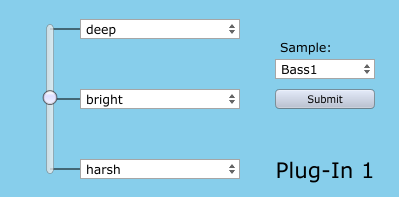
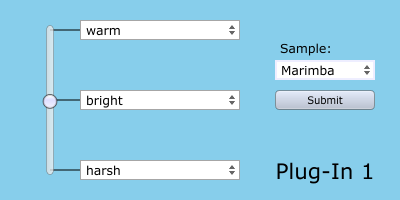
and they talked of the hordes of old

diff --git a/chapter7/chapter7.tex b/chapter7/chapter7.tex
@@ -576,24 +576,33 @@
 	\subsection{Evaluation Experiment}
 	\label{sec:PerceptualExperiments-SemanticControl-EvaluationExperiment}
 		To assess the performance of the developed effects subjectively a series of perceptual listening tests were
-		undertaken. Each of the effects were implemented as audio plug-ins with the interface shown in Figure
-		\ref{fig:TestPlugInterface}.
+		undertaken. For the purposes of testing each of the effect was implemented as an audio plug-in. Participants
+		were presented with a DAW session containing a track for each of the test signals. On each track both effect
+		plug-ins were inserted. The effects were labelled as ``Plug-In 1'' and ``Plug-In 2'' and had identical
+		interfaces as seen in Figure \ref{fig:TestPlugInterface}.
 
 		\begin{figure}[h!]
 			\centering
-			\includegraphics{chapter7/Images/TestPlugInInterface.png}
+			\includegraphics[width=0.6\textwidth]{chapter7/Images/TestPlugInInterface.png}
 			\caption{The interface used for assessing the performance of the developed effects.}
 			\label{fig:TestPlugInterface}
 		\end{figure}
 
-		\note
-		{
-			Randomness, DAW, list of descriptors, 3 points labelled, asked to listen to the effect prior to
-			annotation.
+		To mitigate influence of the plug-in's interface layout on the result of the experiment the direction of
+		the parameter sliders was randomised for each participant. The order of the tracks in the DAW session was
+		also randomised to mitigate any effect the order of tracks may have on results.
 
-			(airy, boomy, boxy, bright, clear, creamy, crunchy, deep, full, fuzzy, harsh, muddy, raspy, smooth,
-			thin, tinny and warm)
-		}
+		For each effect on each track participants were asked to first take a short time to audition the effect to
+		become accustomed to how changing the parameter value affects that particular input signal. Once they had
+		investigated the operation of the effect they were asked to label the parameter slider at three positions
+		(parameter values of 0, 0.5 and 1) with a term they felt best described the timbral effect of the effect at
+		that parameter setting. A list of available terms was provided in a drop down list at each parameter value
+		to be labelled as seen in Figure \ref{fig:TestPlugInterface}. The available terms were the 17 unique terms
+		from the SAFE dataset discussed in Chapter \ref{chap:TimbreEvaluation} (airy, boomy, boxy, bright, clear,
+		creamy, crunchy, deep, full, fuzzy, harsh, muddy, raspy, smooth, thin, tinny and warm).
+
+		In total 22 participants took part in the test, all of whom had experience in music production and reported
+		no known hearing problems. All participants undertook the test using the same equipment.
 
 	\subsection{Performance Results}
 	\label{sec:PerceptualExperiments-SemanticControl-PerformanceResults}
@@ -603,18 +612,21 @@
 			\centering
 			\includegraphics{chapter7/Images/HarshConfusion.pdf}
 			\caption{Heat map of term usage for the warmth / harshness effect.}
+			\label{fig:HarshConfusion}
 		\end{figure}
 
 		\begin{figure}[h!]
 			\centering
 			\includegraphics{chapter7/Images/CrunchConfusion.pdf}
 			\caption{Heat map of term usage for the harshness / crunchiness effect.}
+			\label{fig:CrunchConfusion}
 		\end{figure}
 
 		\begin{figure}[h!]
 			\centering
 			\includegraphics{chapter7/Images/CombinedConfusion.pdf}
 			\caption{Heat map of term usage across both effects.}
+			\label{fig:CombConfusion}
 		\end{figure}
 
 		\begin{figure}[h!]
